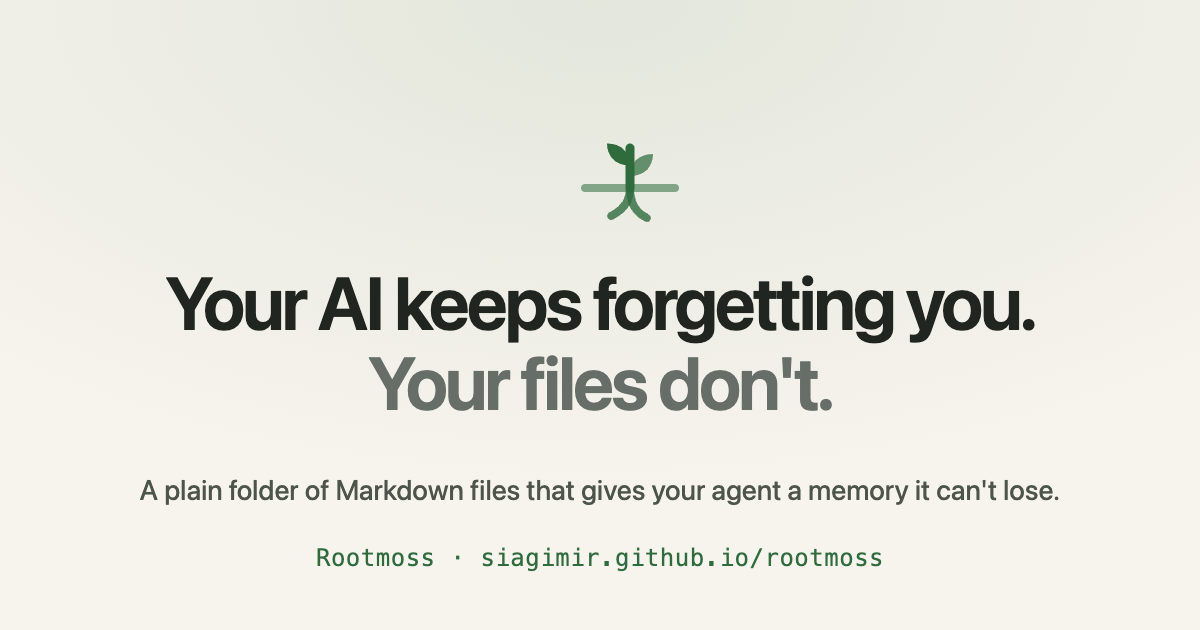
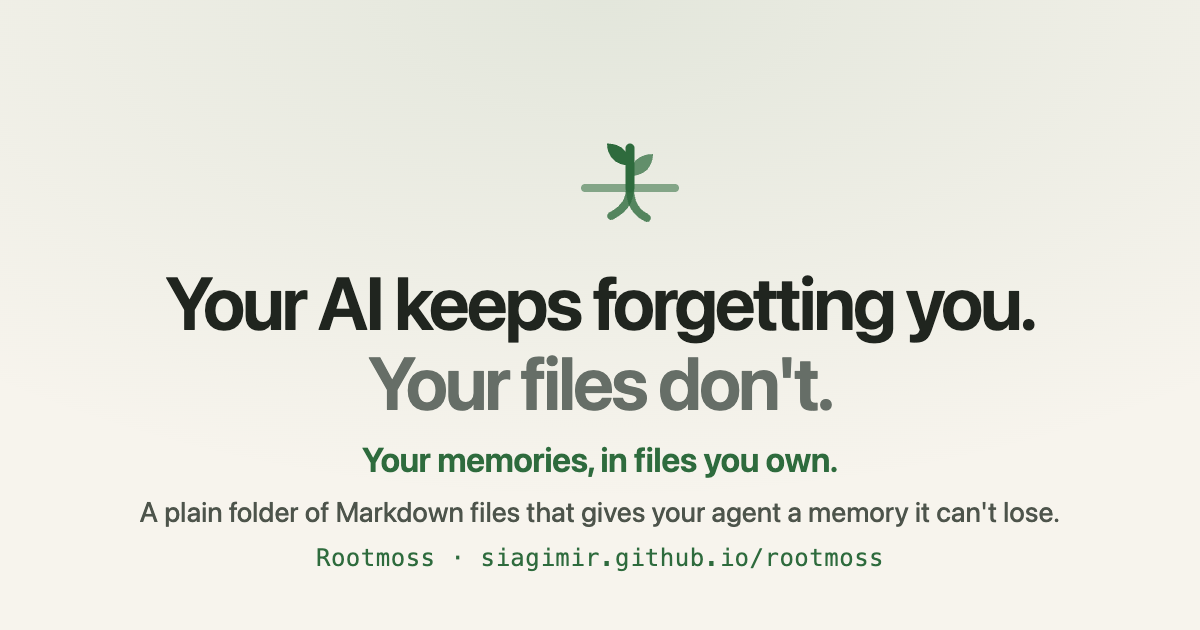
site: H9 hero subhead + OG card sync

Changed region(s): [[0.1233, 0.6937, 0.8942, 0.8444]]

diff --git a/index.html b/index.html
@@ -16,13 +16,13 @@
 <meta property="og:image" content="https://siagimir.github.io/rootmoss/og.png">
 <meta property="og:image:width" content="1200">
 <meta property="og:image:height" content="630">
-<meta property="og:image:alt" content="Rootmoss — Your AI keeps forgetting you. Your files don't.">
+<meta property="og:image:alt" content="Rootmoss — Your AI keeps forgetting you. Your files don't. Your memories, in files you own.">
 <meta name="twitter:card" content="summary_large_image">
 <meta name="twitter:site" content="@MiroslavSiagi">
 <meta name="twitter:title" content="Rootmoss — a memory for your AI, in files you own">
 <meta name="twitter:description" content="Teach it once — every new chat starts already knowing who you are and what you've decided. No account, no subscription, no company holding your data.">
 <meta name="twitter:image" content="https://siagimir.github.io/rootmoss/og.png">
-<meta name="twitter:image:alt" content="Rootmoss — Your AI keeps forgetting you. Your files don't.">
+<meta name="twitter:image:alt" content="Rootmoss — Your AI keeps forgetting you. Your files don't. Your memories, in files you own.">
 
 <link rel="canonical" href="https://siagimir.github.io/rootmoss/">
 <link rel="alternate" type="text/plain" title="llms.txt" href="https://siagimir.github.io/rootmoss/llms.txt">
@@ -246,6 +246,14 @@
     max-width: 24ch;
   }
   h1 .soft { color: var(--dim); }
+
+  .hero-sub {
+    margin: 1.1rem 0 0;
+    font-size: clamp(1.1rem, 1.9vw, 1.35rem);
+    font-weight: 640;
+    letter-spacing: -0.015em;
+    color: var(--accent);
+  }
 
   .lede {
     margin: 1.5rem 0 0;
@@ -668,6 +676,8 @@
       <span class="chip"><span class="dot"></span>v0.1 · open source · MIT</span>
 
       <h1>Your AI keeps forgetting you.<br><span class="soft">Your files don't.</span></h1>
+
+      <p class="hero-sub">Your memories, in files you own.</p>
 
       <p class="lede">
         Rootmoss is a plain folder of Markdown files — your profile, your
